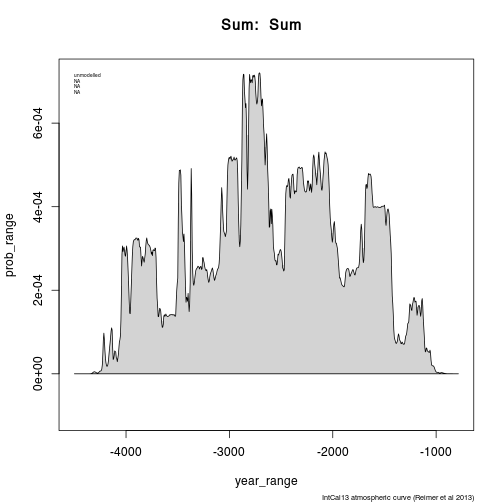
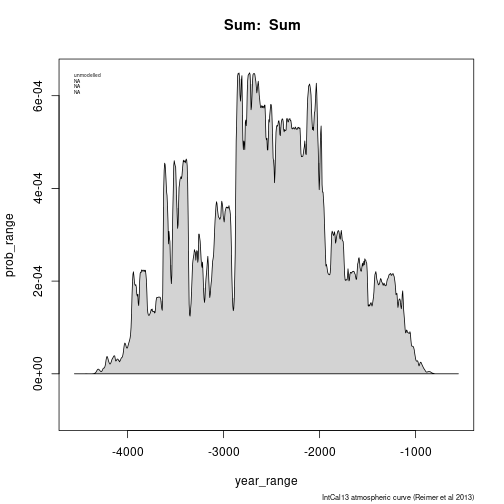
fixed date, increase n of sumsims, some reformating

diff --git a/index.html b/index.html
@@ -15,7 +15,7 @@ class: center, middle, inverse, title-slide
 # creating reproducible sum calibrations for archaeological demographic assessments
 ## the R package oxcAAR
 ### Nicole Grunert - Martin Hinz - Clemens Schmid
-### 2016/12/12 (updated: 2018-08-31)
+### 2018/09/06
 
 ---
 
@@ -361,7 +361,7 @@ oxcalSimulate(-3400, 25, "SimDate_1") %&gt;% plot()
 oxcalSumSim(
   timeframe_begin = -4000, # From when
   timeframe_end = -3000, # To when
-  n = 50, # Number of dates
+  n = 500, # Number of dates
   stds = 35, # Standard deviation of dates (can also be a vector of length n)
   date_distribution = "uniform" # random uniform; alternatively: equidist for equidistant dates
 ) %&gt;% plot()
@@ -404,7 +404,14 @@ sim_result &lt;- my_bp_dates %&gt;%
       date_distribution = "uniform"
     )$raw_probabilities
   )
+```
 
+```
+## Warning: 'broom::bootstrap' is deprecated.
+## See help("Deprecated")
+```
+
+```r
 alpha = .05
 
 envelope &lt;- sim_result %&gt;%
@@ -454,10 +461,8 @@ https://cran.r-project.org/web/packages/oxcAAR/index.html
 https://github.com/ISAAKiel/oxcAAR
 
 &lt;br&gt;
-&lt;br&gt;
 
 .pull-left[### Thats all, folks!]
-
 
 You find this presentation at:
 
